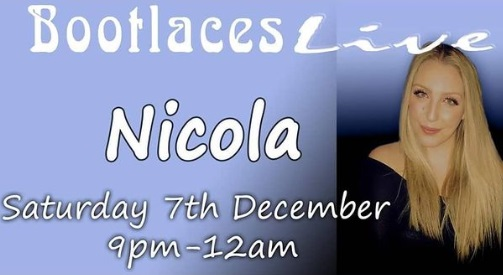
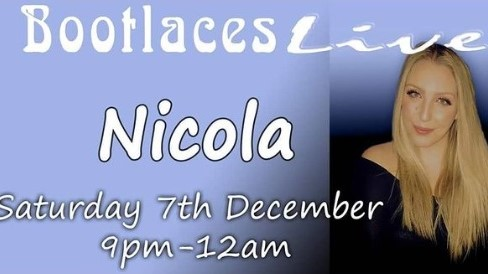
img size testing for event.

diff --git a/assets/css/style.css b/assets/css/style.css
@@ -124,8 +124,10 @@ body {
 }
 
 .event-img{
-    padding: 10px ;
+    
     margin: 0 auto;
+    height: 170px;
+    width: 300px;
     box-shadow: 0px 2px 4px 0px #fafafa;
     transition: transform .2s; 
     background-color: #fafafa;
@@ -260,14 +262,10 @@ body {
         background-size: cover;
     }
 
-    .event-img {
-    max-height: 400px;
-    width: 400px;
-    }
-
     .social-network i{
         font-size: 275%;
         padding-right: 9%;
         padding-left: 9%;
     }
+    
 }

diff --git a/index.html b/index.html
@@ -87,7 +87,7 @@
         <h2>Upcoming Events</h2>
         <div class="container event-outer">
             <div class="row text-center text-lg-left">
-                <div class="col-lg-4 col-md-4 col-sm-1 ">
+                <div class="col-lg-4 col-md-4 col-sm-12">
                     <div class="d-block mb-4 h-100">
                         <img class="img-fluid img-thumbnail center-block event-img"
                             src="assets/media/gigs/20jul-festival.jpg"
